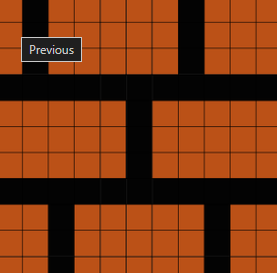
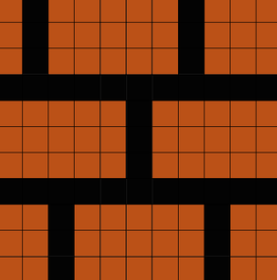
place box chains at random positions as whole objects

diff --git a/src/components/Background.jsx b/src/components/Background.jsx
@@ -32,6 +32,12 @@ const COINS = Array.from({ length: 2 }, () => ({
   delay: Math.random() * 5,
 }))
 
+const BOX_CHAINS = Array.from({ length: 3 }, () => ({
+  left: 3 + Math.random() * 85,
+  top: 5 + Math.random() * 50,
+  delay: Math.random() * 3,
+}))
+
 function PixelCloud({ top, scale, dur, delay, opacity }) {
   return (
     <svg
@@ -195,7 +201,16 @@ export default function Background() {
             />
           ))}
         </div>
-        <BoxChain style={{ top: '24%', left: '30%' }} />
+        {BOX_CHAINS.map((b, i) => (
+          <BoxChain
+            key={i}
+            style={{
+              top: `${b.top}%`,
+              left: `${b.left}%`,
+              animationDelay: `${b.delay}s`,
+            }}
+          />
+        ))}
         {COINS.map((c, i) => (
           <PixelCoin
             key={i}
@@ -213,7 +228,16 @@ export default function Background() {
         {CLOUDS.map((c) => (
           <PixelCloud key={c.id} {...c} />
         ))}
-        <BoxChain style={{ top: '18%', left: '58%' }} />
+        {BOX_CHAINS.map((b, i) => (
+          <BoxChain
+            key={i}
+            style={{
+              top: `${b.top}%`,
+              left: `${b.left}%`,
+              animationDelay: `${b.delay}s`,
+            }}
+          />
+        ))}
         {COINS.map((c, i) => (
           <PixelCoin
             key={i}
